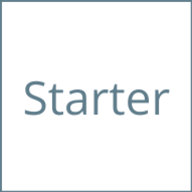
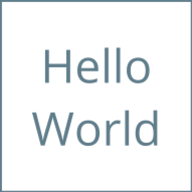
rebrand

Changed region(s): [[0.125, 0.2188, 0.9062, 0.7812]]

diff --git a/public/index.html b/public/index.html
@@ -6,27 +6,27 @@
   <meta http-equiv="X-UA-Compatible" content="IE=edge">
   <meta name="viewport" content="width=device-width, initial-scale=1, maximum-scale=1, user-scalable=no">
 
-  <title>Starter</title>
+  <title>Hello World</title>
 
   <!-- <SEO> -->
 
-  <meta name="description" content="Starter!">
+  <meta name="description" content="Hello World!">
   <meta name="image" content="%PUBLIC_URL%/logo.png">
 
   <!-- Schema.org for Google -->
-  <meta itemprop="name" content="Starter">
-  <meta itemprop="description" content="Starter!">
+  <meta itemprop="name" content="Hello World">
+  <meta itemprop="description" content="Hello World!">
   <meta itemprop="image" content="%PUBLIC_URL%/logo.png">
 
   <!-- Twitter -->
   <meta name="twitter:card" content="summary">
-  <meta name="twitter:title" content="Starter">
-  <meta name="twitter:description" content="Starter!">
+  <meta name="twitter:title" content="Hello World">
+  <meta name="twitter:description" content="Hello World!">
   <meta name="twitter:image" content="%PUBLIC_URL%/logo.png">
 
   <!-- Open Graph general (Facebook, Pinterest & Google+) -->
-  <meta name="og:title" content="Starter">
-  <meta name="og:description" content="Starter!">
+  <meta name="og:title" content="Hello World">
+  <meta name="og:description" content="Hello World!">
   <meta name="og:image" content="%PUBLIC_URL%/logo.png">
   <meta name="og:type" content="website">
 
@@ -39,7 +39,7 @@
 
 <body>
   <noscript>
-    <strong>We're sorry but Starter doesn't work properly without JavaScript enabled. Please enable it to continue.</strong>
+    <strong>We're sorry but Hello Worlddoesn't work properly without JavaScript enabled. Please enable it to continue.</strong>
   </noscript>
 
   <div id="app"></div>

diff --git a/src/common/config.js b/src/common/config.js
@@ -15,4 +15,4 @@ if (localStorage && localStorage.CONFIG_OVERRIDE) {
 debug('CONFIG_OVERRIDE', CONFIG_OVERRIDE);
 
 export const API_ENDPOINT = CONFIG_OVERRIDE.API_ENDPOINT
-  || (process.env.NODE_ENV === 'production' ? 'http://backend.starter.emiketic.com' : 'http://localhost:5000');
+  || (process.env.NODE_ENV === 'production' ? 'http://backend.helloworld.emiketic.com' : 'http://localhost:5000');

diff --git a/src/common/intl.js b/src/common/intl.js
@@ -1,5 +1,5 @@
-import $intl from 'starter-lib/src/common/intl';
+import $intl from 'helloworld-lib/src/common/intl';
 
-export * from 'starter-lib/src/common/intl';
+export * from 'helloworld-lib/src/common/intl';
 
 export default $intl;

diff --git a/src/common/validate.js b/src/common/validate.js
@@ -1,4 +1,4 @@
-export * from 'starter-lib/src/common/validate';
+export * from 'helloworld-lib/src/common/validate';
 
 export function exec(value, rules) {
   let _error = [];

diff --git a/src/common/init.js b/src/common/init.js
@@ -18,7 +18,7 @@ if (process.env.NODE_ENV === 'development') {
  * Setup Logger
  */
 
-const PREFIX = 'Starter';
+const PREFIX = 'HelloWorld';
 
 Logger.setup(PREFIX);
 

diff --git a/src/common/fetch.helper.js b/src/common/fetch.helper.js
@@ -1,1 +1,1 @@
-export * from 'starter-lib/src/common/fetch.helper';
+export * from 'helloworld-lib/src/common/fetch.helper';

diff --git a/src/common/state.helper.js b/src/common/state.helper.js
@@ -1,1 +1,1 @@
-export * from 'starter-lib/src/redux/state.helper';
+export * from 'helloworld-lib/src/redux/state.helper';

diff --git a/src/common/polyfill.js b/src/common/polyfill.js
@@ -1,1 +1,1 @@
-export * from 'starter-lib/src/browser/polyfill';
+export * from 'helloworld-lib/src/browser/polyfill';

diff --git a/src/common/transform.js b/src/common/transform.js
@@ -1,1 +1,1 @@
-export * from 'starter-lib/src/common/transform';
+export * from 'helloworld-lib/src/common/transform';

diff --git a/src/common/sanitize.js b/src/common/sanitize.js
@@ -1,1 +1,1 @@
-export * from 'starter-lib/src/common/sanitize';
+export * from 'helloworld-lib/src/common/sanitize';

diff --git a/src/common/events.js b/src/common/events.js
@@ -1,1 +1,1 @@
-export * from 'starter-lib/src/common/events';
+export * from 'helloworld-lib/src/common/events';

diff --git a/src/common/logger.js b/src/common/logger.js
@@ -1,1 +1,1 @@
-export * from 'starter-lib/src/common/logger';
+export * from 'helloworld-lib/src/common/logger';
